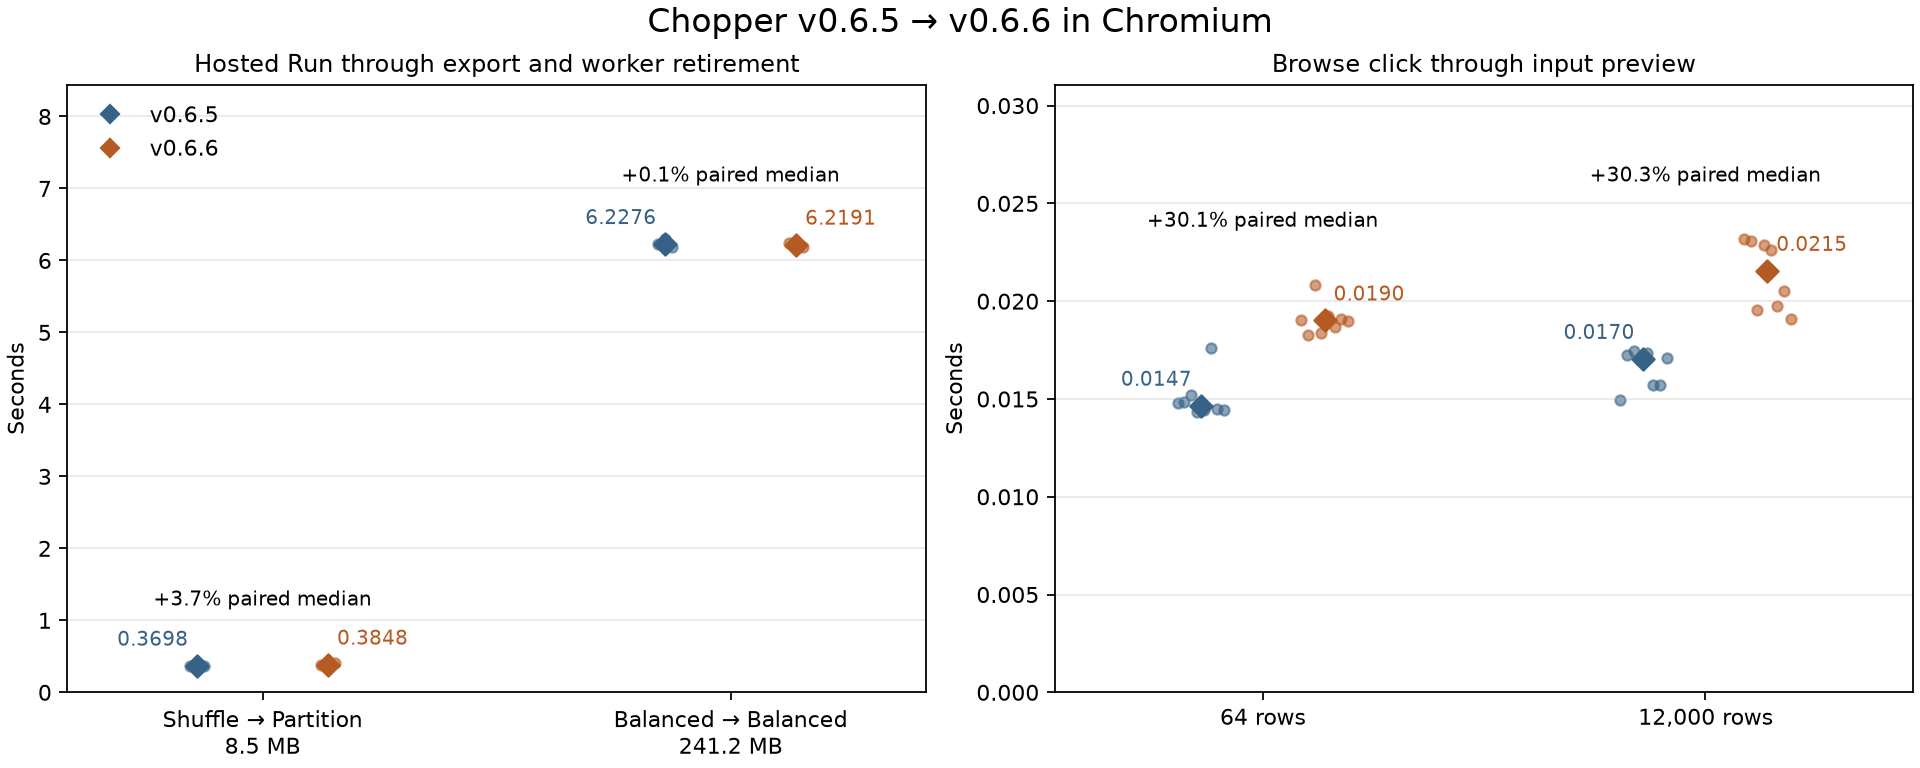
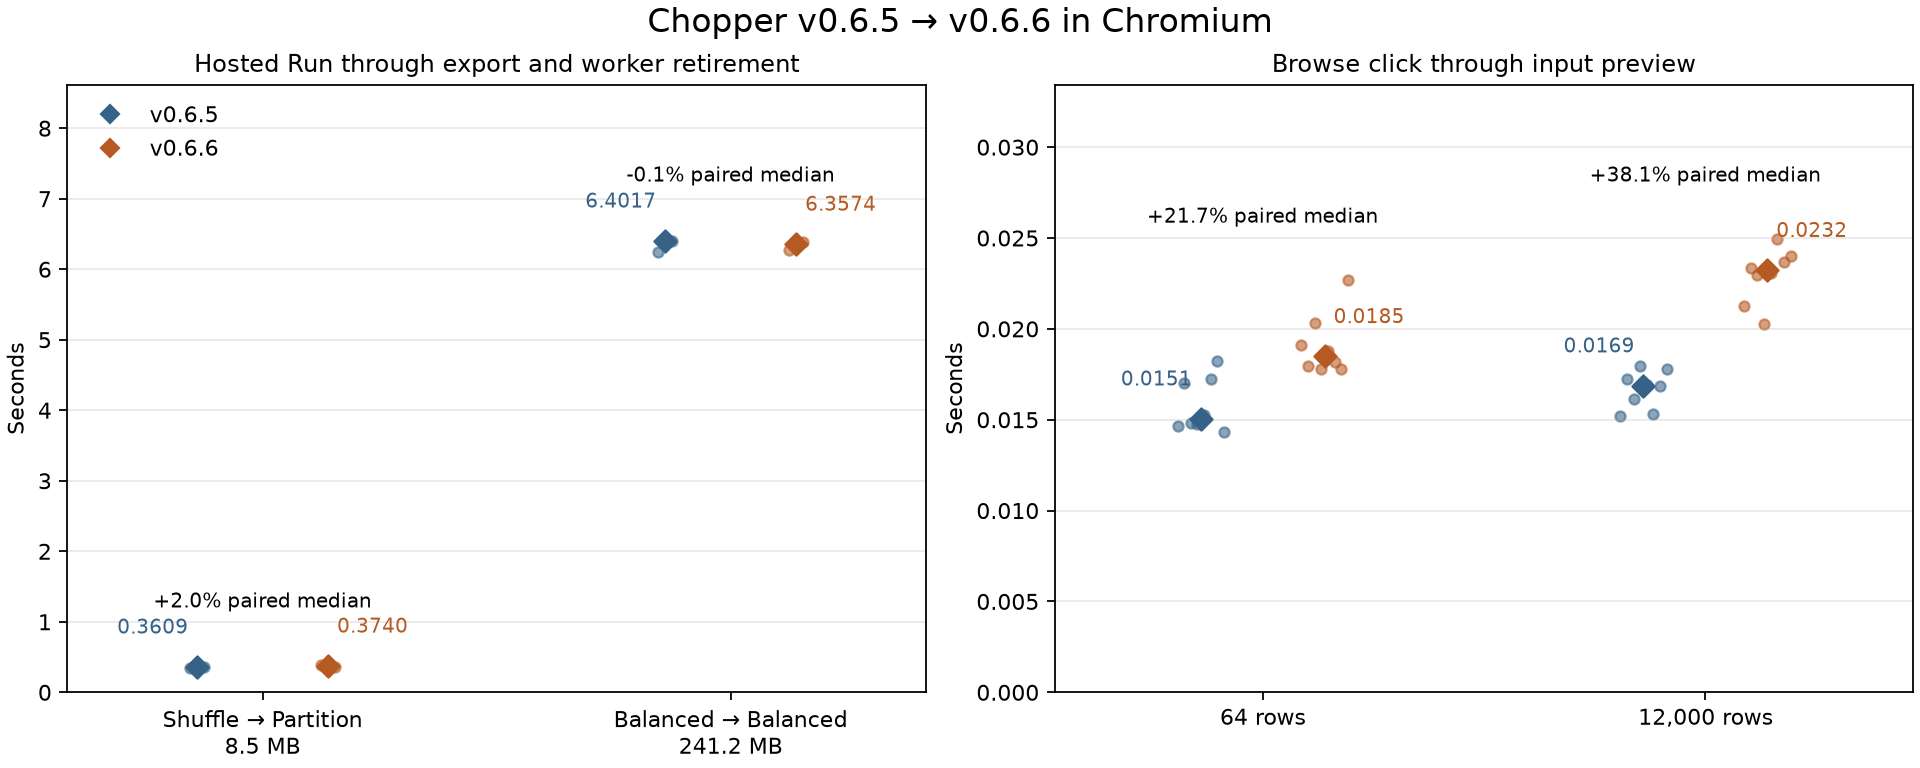
Qualify v0.6.6 performance against the final hosted engine

diff --git a/docs/releases/0.6.6.md b/docs/releases/0.6.6.md
@@ -32,12 +32,12 @@ has three alternating pairs and each preview fixture has eight.
 
 | Workload | v0.6.5 median | v0.6.6 median | Paired median change (range) |
 | --- | ---: | ---: | ---: |
-| Shuffle → Partition, 8.5 MB | 0.370 s | 0.385 s | +3.67% (-0.16% to +9.25%) |
-| Balanced → Balanced, 241.2 MB | 6.228 s | 6.219 s | +0.08% (-1.19% to +0.29%) |
-| Browse to preview, 64 rows | 0.0147 s | 0.0190 s | +30.11% (+6.11% to +37.04%) |
-| Browse to preview, 12,000 rows | 0.0170 s | 0.0215 s | +30.28% (+11.82% to +54.79%) |
+| Shuffle → Partition, 8.5 MB | 0.361 s | 0.374 s | +2.00% (-2.46% to +9.38%) |
+| Balanced → Balanced, 241.2 MB | 6.402 s | 6.357 s | -0.14% (-1.05% to +0.37%) |
+| Browse to preview, 64 rows | 0.0151 s | 0.0185 s | +21.66% (-2.36% to +58.22%) |
+| Browse to preview, 12,000 rows | 0.0169 s | 0.0232 s | +38.05% (+12.75% to +63.05%) |
 
-The preview medians increased by 4.4 and 4.5 ms, respectively. The Run
+The preview medians increased by 3.4 and 6.4 ms, respectively. The Run
 comparisons showed mixed changes within their paired ranges. Tracked resource
 medians matched for both controls. The paired percentage is
 `100 × (candidate − baseline) / baseline`. See the

diff --git a/docs/performance/investigations/hosted-release-comparison-065-to-066-2026-11-27.md b/docs/performance/investigations/hosted-release-comparison-065-to-066-2026-11-27.md
@@ -13,7 +13,7 @@ timer. Each trial uses a fresh page and context with a synthetic File handle.
 The fixtures contain 64 and 12,000 rows of comma CSV. The harness checks
 the header and all eight preview rows. Each fixture has eight alternating
 pairs after an excluded warmup per arm. The v0.6.6 median preview times are
-4.4 and 4.5 ms longer, respectively. This measures the interactive selection
+3.4 and 6.4 ms longer, respectively. This measures the interactive selection
 path with a supplied file handle.
 
 The two Run controls reuse the small Shuffle then Partition and below-floor
